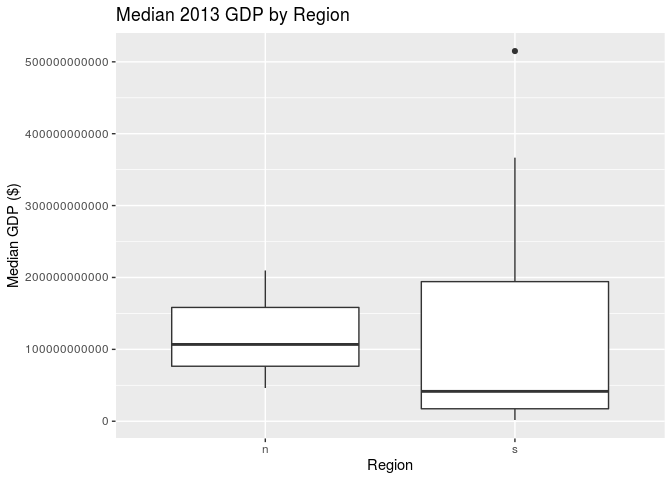
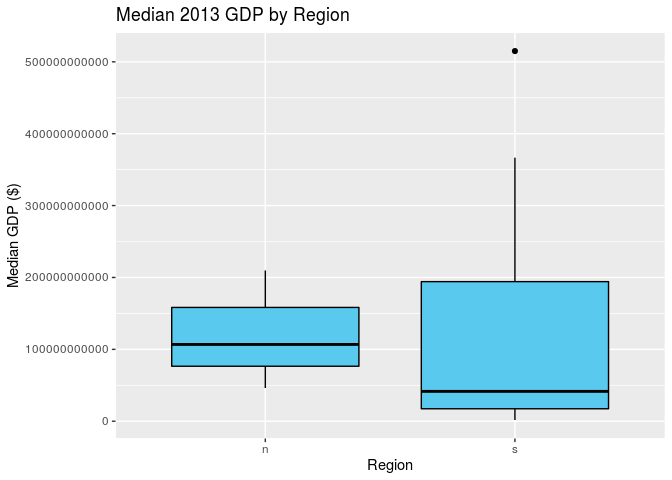
color graphs

Changed region(s): [[0.625, 0.5625, 0.9062, 0.875], [0.25, 0.625, 0.5625, 0.7812], [0.75, 0.0938, 0.7812, 0.125]]

diff --git a/writeup/writeup.md b/writeup/writeup.md
@@ -8,8 +8,10 @@ chunks are turned off with `echo = FALSE`.
 
 ## Introduction
 
-Introduction goes
-here.
+We can visualize what years data for economies in African countries is
+given.
+
+![](writeup_files/figure-gfm/countries-included-1.png)<!-- -->![](writeup_files/figure-gfm/countries-included-2.png)<!-- -->
 
 ## Data Analysis
 
